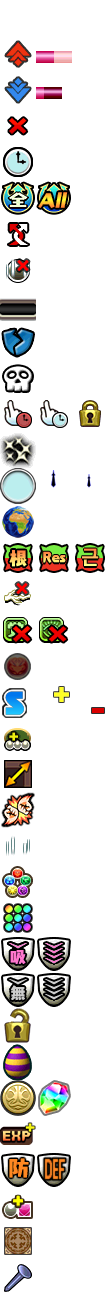
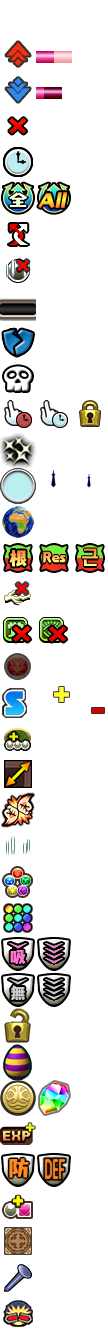
增加改变伤害上限技能

diff --git a/script-skill-parser.js b/script-skill-parser.js
@@ -417,6 +417,7 @@ const SkillKinds = {
 	SkillProviso: "skill-proviso",
 	ImpartAwakenings: "impart-awakenings",
 	ObstructOpponent: "obstruct-opponent",
+	IncreaseDamageCap: "increase-damage-cap",
 }
 
 function skillParser(skillId)
@@ -964,6 +965,9 @@ function impartAwakenings(attrs, types, awakenings) {
 function obstructOpponent(type, pos, ids) {
 	return { kind: SkillKinds.ObstructOpponent, type: type, pos: pos, enemy_skills: ids };
 }
+function increaseDamageCap(cap, targets) {
+	return { kind: SkillKinds.IncreaseDamageCap, cap: cap, targets: targets};
+}
 
 const parsers = {
 	parser: (() => []), //这个用来解决代码提示的报错问题，不起实际作用
@@ -1476,6 +1480,13 @@ const parsers = {
 	[237](turns, hp) { //改变HP上限
 		return activeTurns(turns,
 			powerUp(null, null, p.mul({ hp: hp }))
+		);
+	},
+	[241](turns, cap, target = 1) { //改变伤害上限
+		const targetTypes = ["self","leader-self","leader-helper","sub-members"];
+		const typeArr = flags(target).map(n => targetTypes[n]);
+		return activeTurns(turns,
+			increaseDamageCap(cap * 1e8, typeArr)
 		);
 	},
 	[1000](type, pos, ...ids) {
@@ -2343,6 +2354,18 @@ function renderSkill(skill, option = {})
 				}
 			}
 			frg.ap(tsp.skill.obstruct_opponent(dict));
+			break;
+		}
+		case SkillKinds.IncreaseDamageCap: { //增加伤害上限
+			const {cap, targets} = skill;
+			dict = {
+				icon: createIcon(skill.kind),
+				targets: targets.map(target=>
+					tsp?.target[target.replaceAll("-","_")]?.())
+					.nodeJoin(tsp.word.slight_pause()),
+				cap: cap.bigNumberToString(),
+			};
+			frg.ap(tsp.skill.increase_damage_cap(dict));
 			break;
 		}
 		

diff --git a/script-json_data.js b/script-json_data.js
@@ -113,6 +113,7 @@ let localTranslating = {
 			obstruct_opponent_after_me: tp`The opponent ranked lower than me`,
 			obstruct_opponent_before_me: tp`The opponent ranked higher than me`,
 			obstruct_opponent_designated_position: tp`No.${'positions'} ranked opponents`,
+			increase_damage_cap: tp`The ${'icon'}damage cap of ${'targets'} is increased to ${'cap'}`,
 		},
 		power: {
 			unknown: tp`[ Unkonwn power up: ${'type'} ]`,

diff --git a/languages/zh-TW.js b/languages/zh-TW.js
@@ -96,6 +96,7 @@
 			obstruct_opponent_after_me: tp`排名比自身低的對手`,
 			obstruct_opponent_before_me: tp`排名比自身高的對手`,
 			obstruct_opponent_designated_position: tp`第${'positions'}排位的對手`,
+			increase_damage_cap: tp`${'targets'}的${'icon'}傷害上限提升到${'cap'}`,
 		},
 		power: {
 			unknown: tp`[ 未知能力提升: ${'type'} ]`,

diff --git a/languages/zh.js b/languages/zh.js
@@ -97,6 +97,7 @@
 			obstruct_opponent_after_me: tp`排名比自身低的对手`,
 			obstruct_opponent_before_me: tp`排名比自身高的对手`,
 			obstruct_opponent_designated_position: tp`第${'positions'}排位的对手`,
+			increase_damage_cap: tp`${'targets'}的${'icon'}伤害上限提升到${'cap'}`,
 		},
 		power: {
 			unknown: tp`[ 未知能力提升: ${'type'} ]`,

diff --git a/style.css b/style.css
@@ -3959,3 +3959,7 @@ table .orb-icon
 	background-image: url(images/icon-evolved-skill-loop.png);
 	background-size: contain;
 }
+.icon-skill[data-icon-type="increase-damage-cap"]
+{
+	background-position-y:calc(-36px * 36);
+}
